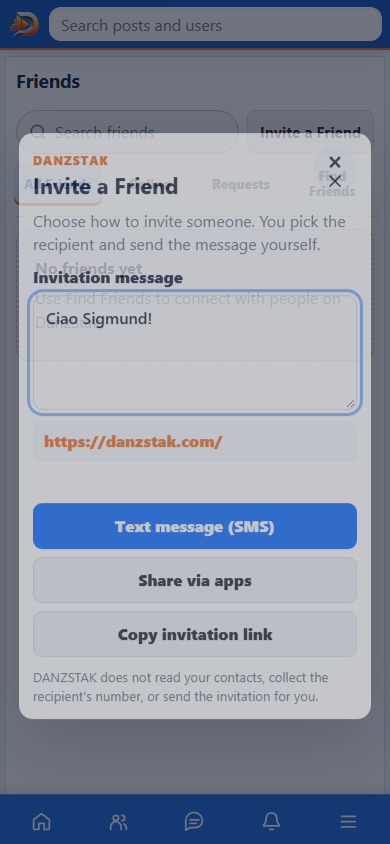
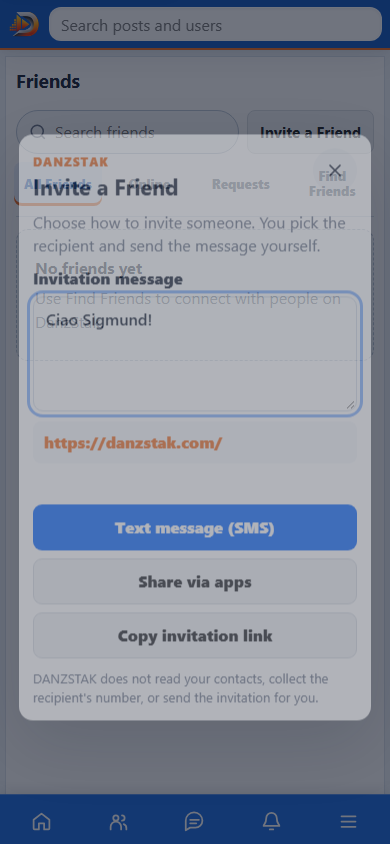
fix invite dialog close control

diff --git a/profile.html b/profile.html
@@ -38,14 +38,14 @@ h1{margin:0 0 6px;font-size:34px;line-height:var(--ds-leading-tight,1.2);letter-
 <link rel="stylesheet" href="assets/incoming-calls.css?v=233">
 <link rel="stylesheet" href="assets/soft-ui.css?v=427">
 <link rel="stylesheet" href="assets/mobile-design-system.css?v=13">
-<link rel="stylesheet" href="assets/invite-friends.css?v=1">
+<link rel="stylesheet" href="assets/invite-friends.css?v=2">
 <script src="assets/languages.js?v=231" defer></script>
 <script src="assets/brand-language-aliases.js?v=7" defer></script>
 <script src="assets/i18n.js?v=396" defer></script>
 <script src="assets/mobile-keyboard.js?v=232" defer></script>
 <link rel="stylesheet" href="assets/facebook-import.css?v=341">
 <script src="assets/facebook-import.js?v=343" defer></script>
-<script src="assets/invite-friends.js?v=1" defer></script>
+<script src="assets/invite-friends.js?v=2" defer></script>
 <script src="assets/profile-sharing.js?v=417" defer></script>
 <script src="assets/user-content-links.js?v=1" defer></script>
 <script src="assets/post-sharing.js?v=420" defer></script>

diff --git a/feed.html b/feed.html
@@ -354,7 +354,7 @@ video.post-media { height:auto; max-height:none; object-fit:contain; object-posi
 <link rel="stylesheet" href="assets/responsive-media.css?v=4">
 <link rel="stylesheet" href="assets/mobile-design-system.css?v=13">
 <link rel="stylesheet" href="assets/danzstak-original-feed.css?v=7">
-<link rel="stylesheet" href="assets/invite-friends.css?v=1">
+<link rel="stylesheet" href="assets/invite-friends.css?v=2">
 <script src="assets/languages.js?v=231" defer></script>
 <script src="assets/brand-language-aliases.js?v=7" defer></script>
 <script src="assets/i18n.js?v=396" defer></script>
@@ -363,7 +363,7 @@ video.post-media { height:auto; max-height:none; object-fit:contain; object-posi
 <script src="assets/user-content-links.js?v=1" defer></script>
 <script src="assets/post-sharing.js?v=420" defer></script>
 <script src="assets/media-tags.js?v=359" defer></script>
-<script src="assets/invite-friends.js?v=1" defer></script>
+<script src="assets/invite-friends.js?v=2" defer></script>
 </head>
 
 <body class="danzstak-original">

diff --git a/messages.html b/messages.html
@@ -20,7 +20,7 @@
 <link rel="stylesheet" href="assets/user-content-links.css?v=1">
 <link rel="stylesheet" href="assets/mobile-design-system.css?v=13">
 <link rel="stylesheet" href="assets/responsive-media.css?v=4">
-<link rel="stylesheet" href="assets/invite-friends.css?v=1">
+<link rel="stylesheet" href="assets/invite-friends.css?v=2">
 <link rel="stylesheet" href="assets/incoming-calls.css?v=233">
 <title>SYNC | DanzStak</title>
 <script src="assets/languages.js?v=231" defer></script>
@@ -114,7 +114,7 @@
   <a role="button" data-icon="menu" aria-label="Menu" title="Menu" href="feed.html?view=feed&amp;menu=1"></a>
 </nav>
 <script src="assets/icon-buttons.js?v=7" defer></script>
-<script src="assets/invite-friends.js?v=1" defer></script>
+<script src="assets/invite-friends.js?v=2" defer></script>
 <script src="assets/identity-media.js?v=1" defer></script>
 <script src="assets/chat.js?v=450" defer></script>
 <script src="assets/direct-messages.js?v=485" defer></script>

diff --git a/assets/invite-friends.css b/assets/invite-friends.css
@@ -5,7 +5,6 @@
 .invite-friends-panel h2{margin:2px 0 0;font-size:1.35rem;line-height:1.2}
 .invite-friends-kicker{color:var(--ds-accent,#1769e0);font-size:.72rem;font-weight:900;letter-spacing:.12em}
 .invite-friends-close{display:grid;place-items:center;width:44px;min-width:44px;height:44px;padding:0;border:0;border-radius:50%;background:var(--ds-surface-subtle,#f2f5f9);color:var(--ds-ink,#172033);font-size:0}
-.invite-friends-close::before{content:"×";font-size:1.5rem;line-height:1}
 .invite-friends-intro,.invite-friends-privacy,.invite-friends-status{margin:0;color:var(--ds-muted,#667085);line-height:1.45}
 .invite-friends-message{display:grid;gap:6px;font-weight:800}
 .invite-friends-message textarea{width:100%;min-height:104px;resize:vertical;border:1px solid var(--ds-border,#d9e1eb);border-radius:10px;padding:10px 12px;background:#fff;color:#172033;font:inherit;font-weight:500;line-height:1.45}

diff --git a/assets/invite-friends.js b/assets/invite-friends.js
@@ -38,6 +38,8 @@
     heading.textContent = translate("Invite a Friend");
     headingWrap.append(kicker, heading);
     const close = createButton("Close", "invite-friends-close", () => dialog.close());
+    close.textContent = "";
+    close.dataset.icon = "close";
     close.setAttribute("aria-label", translate("Close invitation"));
     close.title = translate("Close");
     header.append(headingWrap, close);

diff --git a/docs/DANZSTAK-DEVELOPMENT-REPORT.md b/docs/DANZSTAK-DEVELOPMENT-REPORT.md
@@ -11,7 +11,7 @@ Status: **IN PROGRESS — IMPLEMENTED AND HOSTED-STAGING VERIFIED; PHYSICAL SMS/
 - Functional/integration evidence: the complete `test-regressions.ps1` gate passes, including all JavaScript checks, 11-page smoke testing and infrastructure validation. `test-invite-friends.cjs` verifies iOS/Android URI generation, Unicode encoding, no recipient collection, localization coverage, entry points and PWA caching.
 - Browser evidence: Friends and SYNC invitation flows pass in Microsoft Edge/Chromium at 320, 390, 430 and 1366px; the expanded Friends directory matrix still passes 320, 360, 390, 430, 768 and 1366px. Current captures are in `docs/screenshots/issue-30-invite-friends/`.
 - Hosted staging evidence: AWS Amplify app `d31oovi2mos5iz`, DEVELOPMENT branch `codex/issue-30-invite-friends`, exact-head job `2` succeeded in `us-west-1` for `229b59a18302bbd934eabe1a65f3c9df70f85182` at 2026-11-06 13:42:41 Europe/Berlin. The public review URL is `https://codex-issue-30-invite-friends.d31oovi2mos5iz.amplifyapp.com/feed.html?view=friends`. Both invitation and full Friends browser matrices pass against that hosted build.
-- PWA assets advance to `invite-friends.js?v=1`, `invite-friends.css?v=1`, `feed-enhancements.js?v=533`, `feed-enhancements.css?v=503`, `i18n.js?v=396`, `profile-sharing.js?v=417` and `danzstak-shell-v696`. No drafts, messages, contacts or member data are cleared.
+- PWA assets advance to `invite-friends.js?v=2`, `invite-friends.css?v=2`, `feed-enhancements.js?v=533`, `feed-enhancements.css?v=503`, `i18n.js?v=396`, `profile-sharing.js?v=417` and `danzstak-shell-v696`. No drafts, messages, contacts or member data are cleared.
 - Verification boundary: automated browsers prove rendering, encoding, fallback behavior and focus. They do not prove that a physical Android/iPhone opens a particular installed SMS application, that an OS share target receives the payload, or that an invitation is delivered. Those remain explicit physical-device acceptance checks. No telecom provider, paid SMS service, address-book permission, referral backend or automatic friendship was added.
 
 ## Issue #54 — compact Friends directory — 2026-11-06
